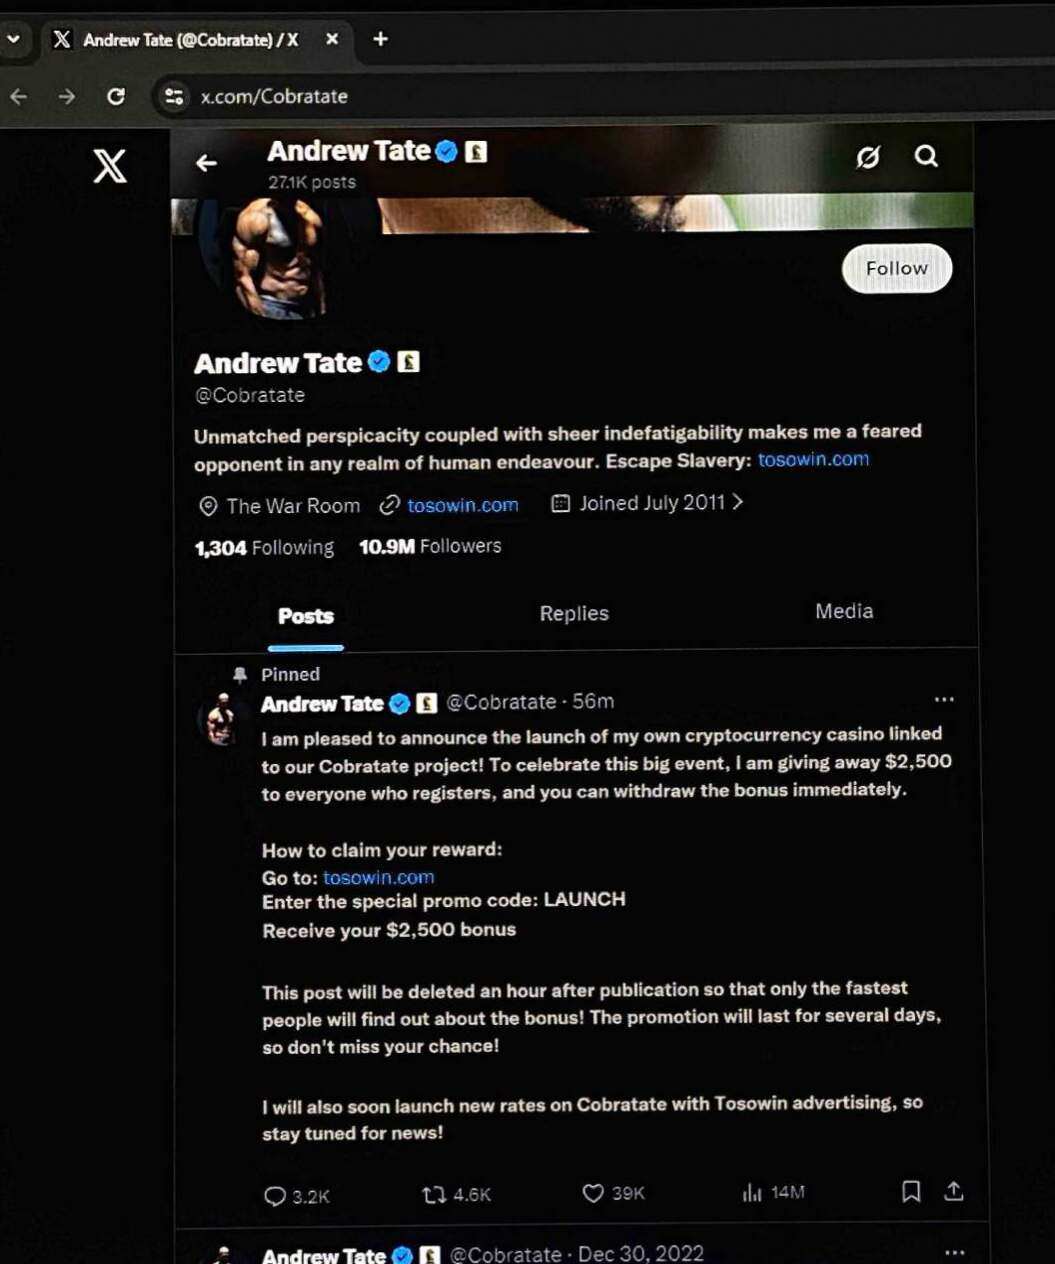
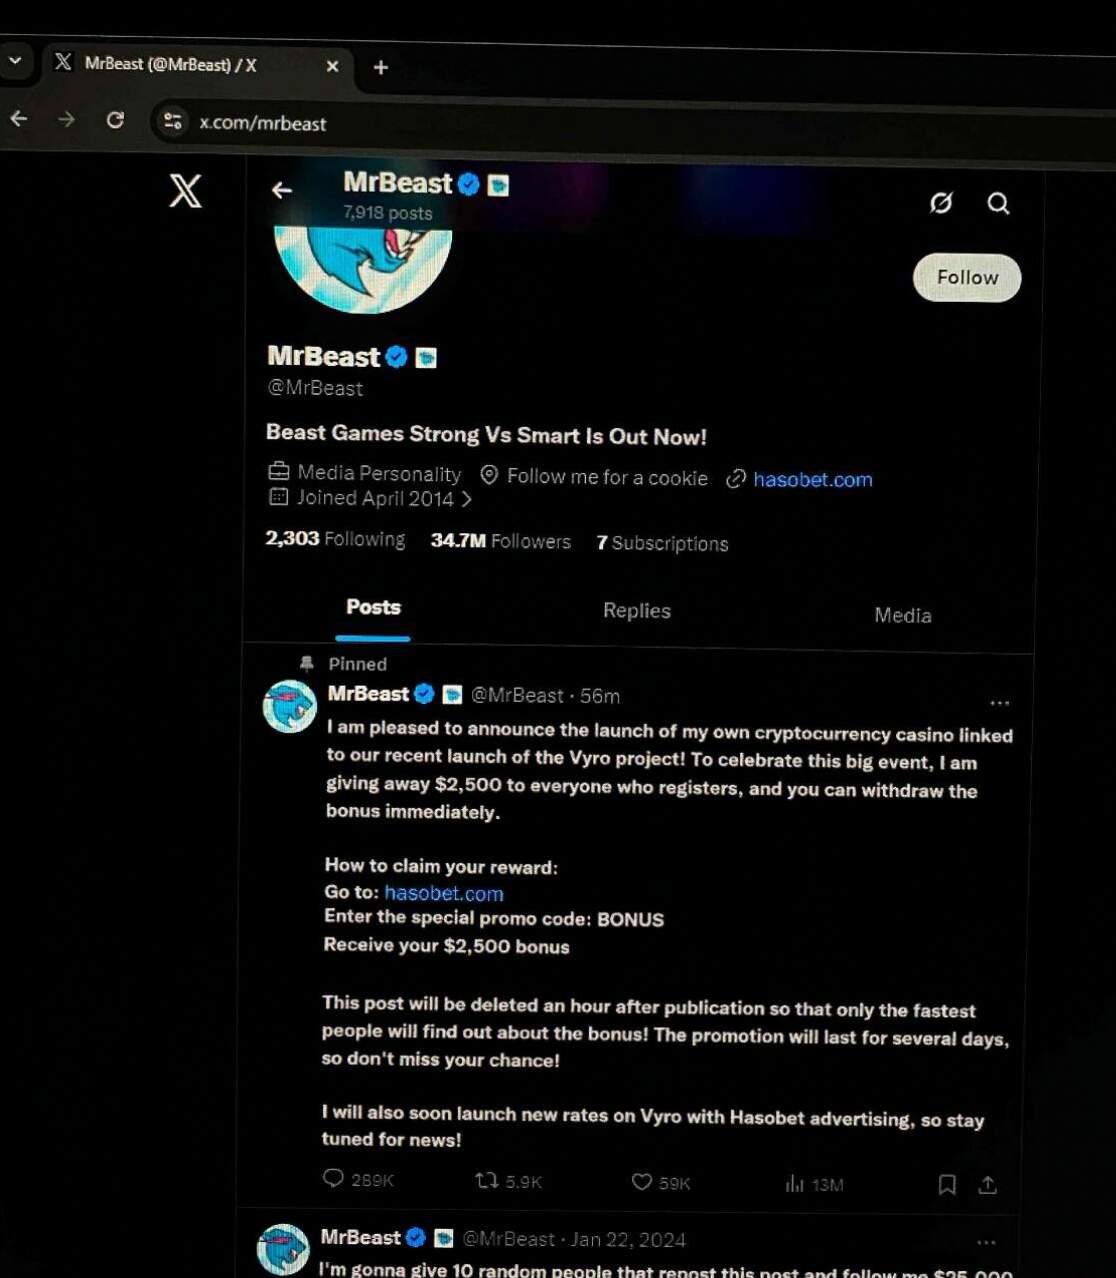
added more hashes

diff --git a/src/hashes/casino-hashes.ts b/src/hashes/casino-hashes.ts
@@ -1,18 +1,26 @@
 export const KNOWN_CASINO_HASHES: string[] = [
-	// images\PXL_20260521_231846_796.jpg
+	// (existing)
[1 lines of base64/hex data omitted]
-	// images\image4.jpg
+	// (existing)
[1 lines of base64/hex data omitted]
-	// images\image3.jpg
+	// (existing)
[1 lines of base64/hex data omitted]
-	// images\image2.jpg
+	// (existing)
[1 lines of base64/hex data omitted]
-	// images\image.jpg
+	// (existing)
[1 lines of base64/hex data omitted]
-	// images\20260522_221131.jpg
+	// (existing)
[1 lines of base64/hex data omitted]
-	// images\1780119992747.jpg
+	// (existing)
[1 lines of base64/hex data omitted]
-	// images\1779204530006.jpg
+	// (existing)
[1 lines of base64/hex data omitted]
+	// images\image7.jpg
[1 lines of base64/hex data omitted]
+	// images\image6.jpg
[1 lines of base64/hex data omitted]
+	// images\image5.jpg
[1 lines of base64/hex data omitted]
+	// images\image.jpg
[1 lines of base64/hex data omitted]
 ];
